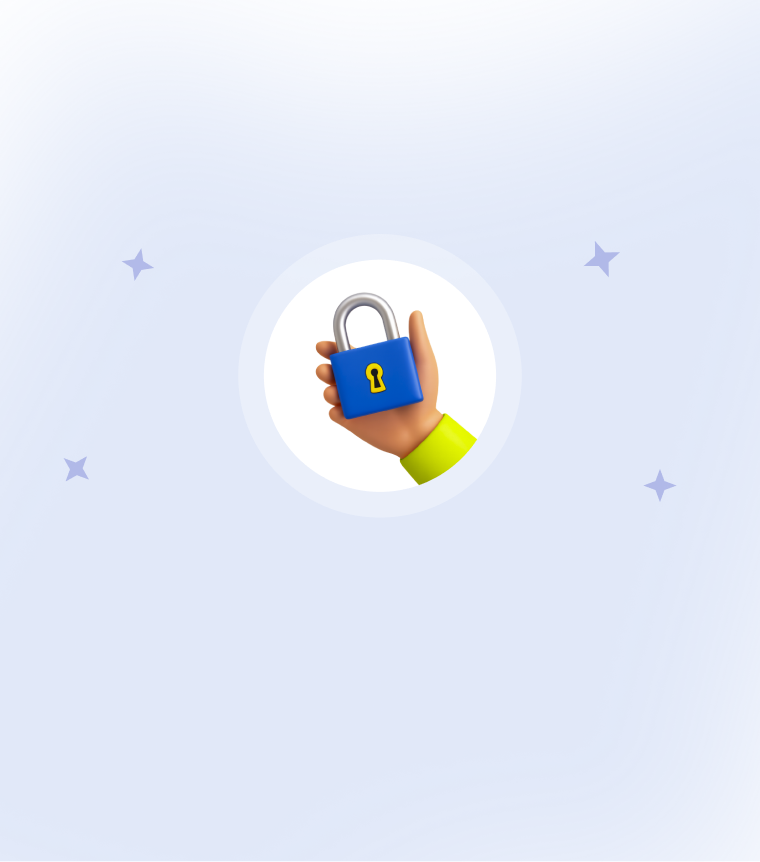
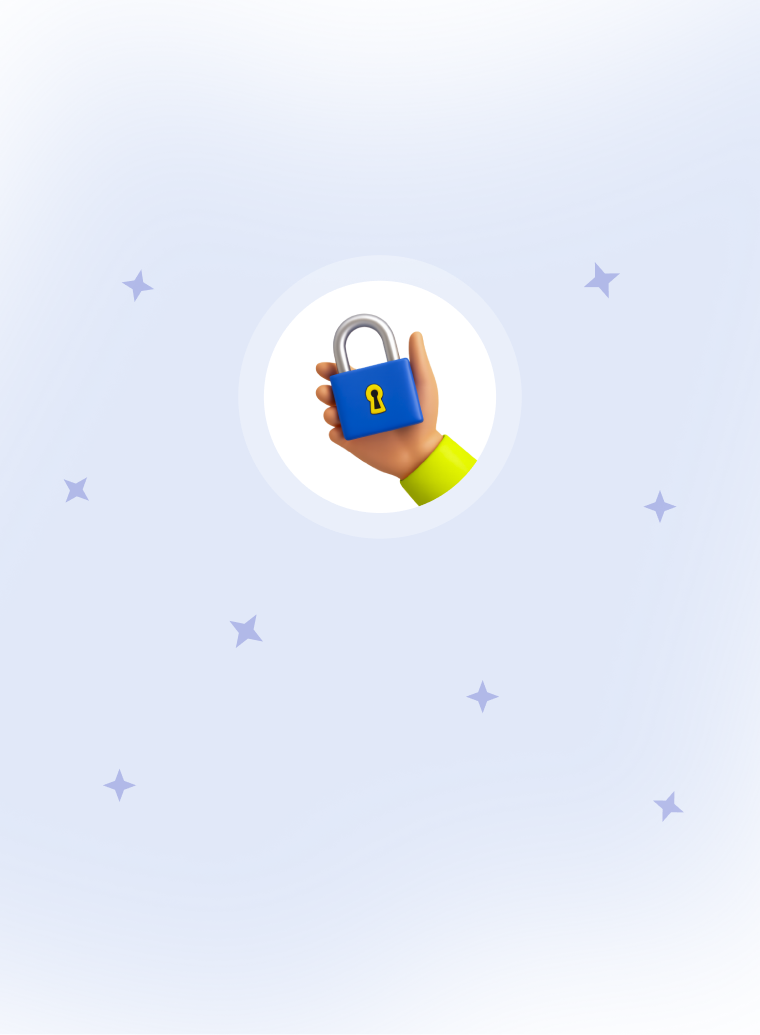
story and change password design changes

diff --git a/lib/features/user_profile/change_password/presentation/change_password/change_password_screen.dart b/lib/features/user_profile/change_password/presentation/change_password/change_password_screen.dart
@@ -10,9 +10,9 @@ import 'package:go_sport/features/shared_widgets/input.dart';
 import 'package:go_router/go_router.dart';
 import 'package:go_sport/features/user_profile/change_password/presentation/change_password/change_password_controller.dart';
 
-const double _cardHeight = 600;
-const double _cardOverlap = 25;
-const double _cardVerticalPadding = 40;
+// const double _cardHeight = 600;
+// const double _cardOverlap = 25;
+// const double _cardVerticalPadding = 40;
 
 class ProfileChangePasswordScreen extends ConsumerStatefulWidget {
   const ProfileChangePasswordScreen({super.key});
@@ -69,8 +69,8 @@ class _ProfileChangePasswordScreenState
   @override
   Widget build(BuildContext context) {
     final state = ref.watch(changePasswordControllerProvider);
-    final screenSize = MediaQuery.of(context).size;
-    final imageHeight = screenSize.height - _cardHeight + _cardOverlap;
+    // final screenSize = MediaQuery.of(context).size;
+    // final imageHeight = screenSize.height - _cardHeight + _cardOverlap;
 
     ref.listen<ChangePasswordState>(changePasswordControllerProvider, (
       previous,
@@ -108,7 +108,7 @@ class _ProfileChangePasswordScreenState
               top: 0,
               left: 0,
               right: 0,
-              height: imageHeight,
+              // height: imageHeight,
               child: Image.asset(
                 'assets/images/change_password.png',
                 fit: BoxFit.cover,
@@ -119,8 +119,9 @@ class _ProfileChangePasswordScreenState
             Align(
               alignment: Alignment.bottomCenter,
               child: Container(
-                height: _cardHeight,
-                width: screenSize.width,
+                padding: const EdgeInsets.symmetric(vertical: DSSpacing.s20),
+                // height: _cardHeight,
+                // width: screenSize.width,
                 decoration: BoxDecoration(
                   color: DSColors.white,
                   borderRadius: const BorderRadius.only(
@@ -131,14 +132,16 @@ class _ProfileChangePasswordScreenState
                 child: SingleChildScrollView(
                   padding: const EdgeInsets.symmetric(
                     horizontal: DSSpacing.m,
-                    vertical: _cardVerticalPadding / 2,
+                    // vertical: _cardVerticalPadding / 2,
                   ),
-                  child: ConstrainedBox(
-                    constraints: const BoxConstraints(
-                      minHeight: _cardHeight - _cardVerticalPadding,
-                    ),
-                    child: IntrinsicHeight(
-                      child: Column(
+                  // child: ConstrainedBox(
+                  //   constraints: const BoxConstraints(
+                  //     minHeight: _cardHeight - _cardVerticalPadding,
+                  //   ),
+                  child:
+                      // IntrinsicHeight(
+                      //   child:
+                      Column(
                         crossAxisAlignment: CrossAxisAlignment.stretch,
                         children: [
                           Text(
@@ -167,7 +170,8 @@ class _ProfileChangePasswordScreenState
                             obscureText: true,
                           ),
 
-                          const Spacer(),
+                          // const Spacer(),
+                          const SizedBox(height: DSSpacing.l),
 
                           // Action Button
                           ElevatedButton.icon(
@@ -193,16 +197,18 @@ class _ProfileChangePasswordScreenState
                               backgroundColor: DSColors.blue,
                               minimumSize: const Size.fromHeight(DSSpacing.xxl),
                               shape: RoundedRectangleBorder(
-                                borderRadius: BorderRadius.circular(DSRadius.xxl),
+                                borderRadius: BorderRadius.circular(
+                                  DSRadius.xxl,
+                                ),
                               ),
                             ),
                             onPressed: state.isLoading ? null : _onSave,
                           ),
                         ],
                       ),
-                    ),
-                  ),
                 ),
+                // ),
+                // ),
               ),
             ),
           ],

diff --git a/lib/features/home/presentation/story/story_overlay.dart b/lib/features/home/presentation/story/story_overlay.dart
@@ -182,6 +182,7 @@ class _StoryOverlayState extends ConsumerState<StoryOverlay>
               ),
               child: SafeArea(
                 top: false,
+                bottom: true, //new
                 child: Padding(
                   padding: const EdgeInsets.symmetric(horizontal: DSSpacing.l),
                   child: Column(
@@ -204,17 +205,29 @@ class _StoryOverlayState extends ConsumerState<StoryOverlay>
                         style: context.bodyL?.copyWith(color: DSColors.white80),
                       ),
 
+                      // if ((story.ctaLabel).isNotEmpty &&
+                      //     (story.ctaTargetId).isNotEmpty)
+                      //   const SizedBox(height: DSSpacing.l),
+
+                      // // Empty spacer matching the exact height of your CTA layout
+                      // // if ((story.ctaLabel).isNotEmpty &&
+                      // //     (story.ctaTargetId).isNotEmpty)
+                      // const SizedBox(height: 48),
+
+                      // if ((story.ctaLabel).isNotEmpty &&
+                      //     (story.ctaTargetId).isNotEmpty)
+                      //   SizedBox(
+                      //     height:
+                      //         MediaQuery.of(context).padding.bottom +
+                      //         DSSpacing.l,
+                      //   ),
                       const SizedBox(height: DSSpacing.l),
 
-                      // Empty spacer matching the exact height of your CTA layout
-                      if ((story.ctaLabel).isNotEmpty &&
-                          (story.ctaTargetId).isNotEmpty)
-                        const SizedBox(height: 48),
 
-                      SizedBox(
-                        height:
-                            MediaQuery.of(context).padding.bottom + DSSpacing.l,
-                      ),
+                      if (story.ctaLabel.isNotEmpty &&
+                          story.ctaTargetId.isNotEmpty) ...[
+                        const SizedBox(height: DSSpacing.l + 48),
+                      ],
                     ],
                   ),
                 ),

diff --git a/lib/features/home/presentation/home/widgets/story_item.dart b/lib/features/home/presentation/home/widgets/story_item.dart
@@ -20,15 +20,15 @@ class StoryItem extends StatelessWidget {
         padding: const EdgeInsets.all(DSSpacing.s),
         decoration: BoxDecoration(
           shape: BoxShape.circle,
-
           gradient: !story.isViewed
               ? const SweepGradient(
                   colors: DSColors.storyGradient,
-
-                  stops: [0.0, 0.13, 0.38, 0.63, 1.0],
+                  stops: [0.0, 0.33, 0.66, 1.0],
                 )
               : null,
-
+          // border: story.isViewed
+          //     ? Border.all(color: DSColors.divider, width: 2)
+          //     : null,
           color: story.isViewed ? DSColors.divider : null,
         ),
         child: Container(
@@ -41,7 +41,9 @@ class StoryItem extends StatelessWidget {
             child: SizedBox(
               width: 62, // 72 - 2*(outerRing 2 + whiteRing 3) = 62
               height: 62,
-              child: ClipOval(child: DSNetworkImage(imageUrl: story.imageUrl)),
+              child: ClipOval(
+                child: DSNetworkImage(imageUrl: story.imageUrl),
+              ),
             ),
           ),
         ),

diff --git a/lib/design_system/foundations/ds_colors.dart b/lib/design_system/foundations/ds_colors.dart
@@ -49,13 +49,11 @@ class DSColors {
 
   static const divider = gray20; // rgba(245,245,247,1)
 
+  
   static const List<Color> storyGradient = [
-    Color(0xFF404AC3), // 404AC3 at start
-    Color(0xFF404AC3), // 13% (0.13)
-    Color(
-      0xFFCFDC28,
-    ), // 38% (0.38) - Note: added the missing 'C' for CFD28 -> CFDC28
-    Color(0xFF404AC3), // 63% (0.63)
-    Color(0xFF404AC3), // 404AC3 at end to complete the loop smoothly
+    orange, // Starts Orange at 0.0 (3 o'clock)
+    Color(0xFFCFDC28), // Transitions to Lime/Yellow-Green at 0.33
+    Color(0xFF404AC3), // Transitions to Blue at 0.66
+    orange, // Loops seamlessly back to Orange at 1.0 (3 o'clock)
   ];
 }
